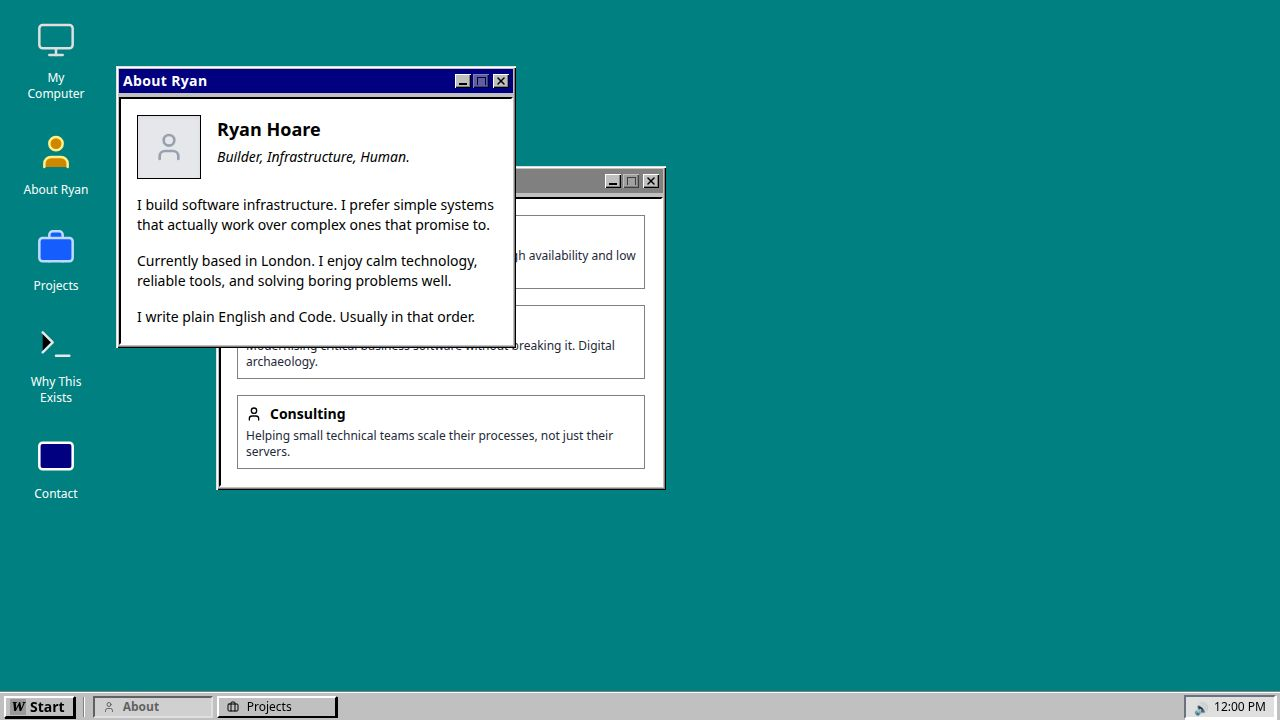
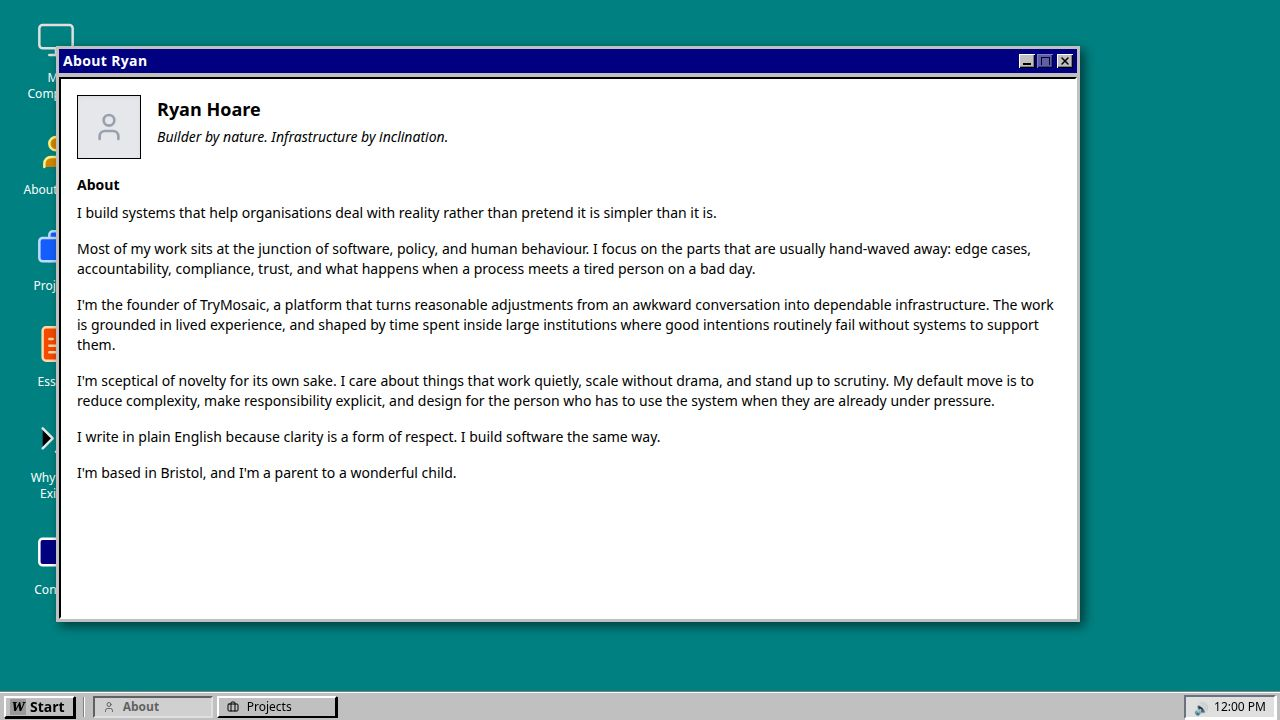
Update the about section with a new biography and tagline
Replace existing text in `client/src/pages/Desktop.tsx` with a new biography for the "About" section, including updating the tagline to "Builder by nature. Infrastructure by inclination." and adding new paragraphs detailing the individual's work and philosophy.

Replit-Commit-Author: Agent
Replit-Commit-Session-Id: e552b60c-7dd1-4c70-9cdd-0805149a1249
Replit-Commit-Checkpoint-Type: full_checkpoint
Replit-Commit-Event-Id: 8d2fae89-f639-451c-82fa-dd7a9865e15e
Replit-Commit-Screenshot-Url: https://storage.googleapis.com/screenshot-production-us-central1/fffca253-245f-41da-91de-806483427b21/e552b60c-7dd1-4c70-9cdd-0805149a1249/OjkpIkq
Replit-Helium-Checkpoint-Created: true

diff --git a/client/src/pages/Desktop.tsx b/client/src/pages/Desktop.tsx
@@ -135,19 +135,29 @@ export default function Desktop() {
               <div>
                 <h3 className="text-lg font-bold font-sans m-0">Ryan Hoare</h3>
                 <p className="text-sm mt-1 italic">
-                  Builder, Infrastructure, Human.
+                  Builder by nature. Infrastructure by inclination.
                 </p>
               </div>
             </div>
+            <h4 className="font-bold mb-2">About</h4>
             <p className="mb-4">
-              I build software infrastructure. I prefer simple systems that
-              actually work over complex ones that promise to.
+              I build systems that help organisations deal with reality rather than pretend it is simpler than it is.
             </p>
             <p className="mb-4">
-              Currently based in London. I enjoy calm technology, reliable
-              tools, and solving boring problems well.
+              Most of my work sits at the junction of software, policy, and human behaviour. I focus on the parts that are usually hand-waved away: edge cases, accountability, compliance, trust, and what happens when a process meets a tired person on a bad day.
             </p>
-            <p>I write plain English and Code. Usually in that order.</p>
+            <p className="mb-4">
+              I'm the founder of TryMosaic, a platform that turns reasonable adjustments from an awkward conversation into dependable infrastructure. The work is grounded in lived experience, and shaped by time spent inside large institutions where good intentions routinely fail without systems to support them.
+            </p>
+            <p className="mb-4">
+              I'm sceptical of novelty for its own sake. I care about things that work quietly, scale without drama, and stand up to scrutiny. My default move is to reduce complexity, make responsibility explicit, and design for the person who has to use the system when they are already under pressure.
+            </p>
+            <p className="mb-4">
+              I write in plain English because clarity is a form of respect. I build software the same way.
+            </p>
+            <p>
+              I'm based in Bristol, and I'm a parent to a wonderful child.
+            </p>
           </div>
         </WindowFrame>
       )}
